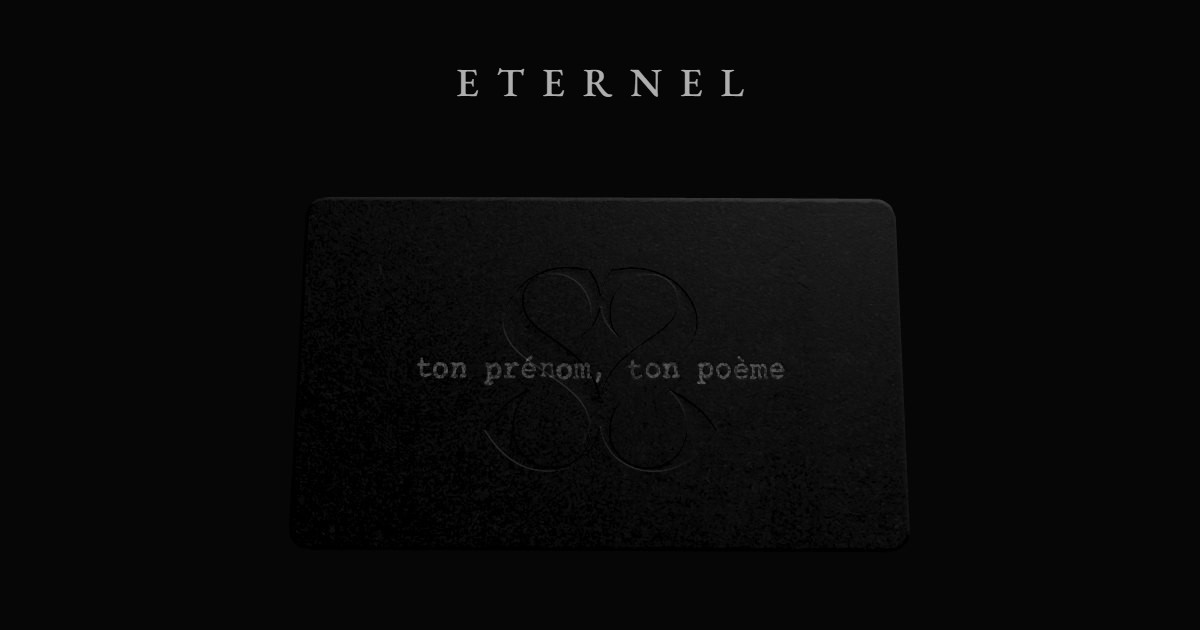
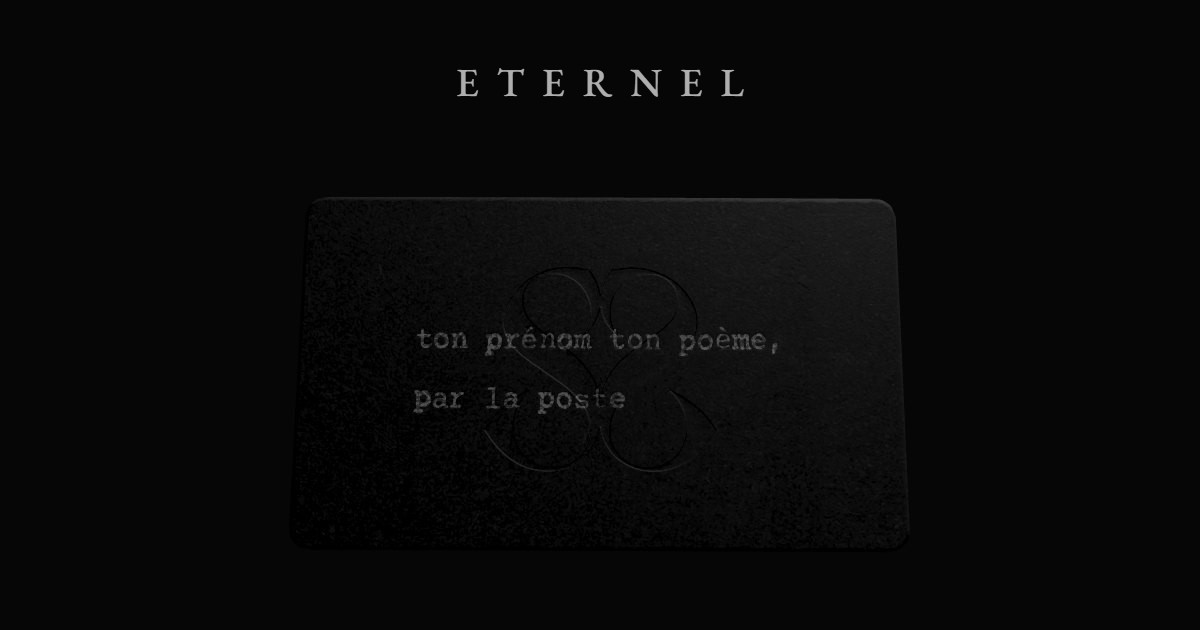
Portail : la première carte devient « ton prénom ton poème, / par la poste » (aperçu du lien refait)

Changed region(s): [[0.3392, 0.5127, 0.5242, 0.6635], [0.5242, 0.5127, 0.6475, 0.6032]]

diff --git a/index.html b/index.html
@@ -13,12 +13,12 @@
 <meta property="og:type" content="website">
 <meta property="og:site_name" content="ETERNEL">
 <meta property="og:title" content="SINGULIÉS">
-<meta property="og:description" content="ton prénom, ton poème. tapé à la machine, posté chez toi.">
+<meta property="og:description" content="ton prénom ton poème, par la poste. tapé à la machine par eternel.">
 <meta property="og:url" content="https://rytrtest1.github.io/singulies/">
 <meta property="og:image" content="https://rytrtest1.github.io/singulies/og.jpg">
 <meta property="og:image:width" content="1200">
 <meta property="og:image:height" content="630">
-<meta property="og:image:alt" content="Une carte noire, logo gaufré, où l'on lit, tapé à la machine : ton prénom, ton poème.">
+<meta property="og:image:alt" content="Une carte noire, logo gaufré, où l'on lit, tapé à la machine : ton prénom ton poème, par la poste.">
 <meta property="og:locale" content="fr_FR">
 <meta name="twitter:card" content="summary_large_image">
 <link rel="icon" type="image/png" sizes="32x32" href="./favicon-32.png">
@@ -30,7 +30,7 @@
 <canvas id="c" aria-hidden="true"></canvas>
 <!-- pour les lecteurs d'écran et les moteurs (invisible) -->
 <div class="sr"><h1>SINGULIÉS, par Eternel</h1><p>Ton prénom devient un poème : on tire une carte du jeu Singuliés, on répond à sa question, puis Eternel écrit ton acrostiche à la machine et te l'envoie par la poste.</p></div>
-<noscript><p style="position:fixed;inset:0;margin:0;display:flex;align-items:center;justify-content:center;text-align:center;color:#aeaeae;font:15px/1.9 'Courier New',monospace;white-space:pre">ton prénom, ton poème.
+<noscript><p style="position:fixed;inset:0;margin:0;display:flex;align-items:center;justify-content:center;text-align:center;color:#aeaeae;font:15px/1.9 'Courier New',monospace;white-space:pre">ton prénom ton poème, par la poste.
 (il faut javascript pour l'écrire.)</p></noscript>
 <div id="fallback" aria-hidden="true"></div>
 <form id="f" autocomplete="off" onsubmit="return false">

diff --git a/email-assets.html b/email-assets.html
@@ -62,10 +62,10 @@
     return { url: c.toDataURL('image/png'), w: w / 2, h: h / 2 };
   }
 
-  // aperçu du lien (Open Graph, 1200 × 630) : ETERNEL comme sur le portail, et la première carte, « ton prénom, ton poème »
+  // aperçu du lien (Open Graph, 1200 × 630) : ETERNEL comme sur le portail, et la première carte, « ton prénom ton poème, par la poste »
   async function ogShot() {
     canvas.width = 1200; canvas.height = 630;
-    const url = cardShot('ton prénom, ton poème', { seed: 5, frac: 0.5, dy: -8 });
+    const url = cardShot('ton prénom ton poème, par la poste', { seed: 5, frac: 0.5, dy: -8 });
     const img = new Image(); img.src = url; await img.decode();
     const c = document.createElement('canvas'); c.width = 1200; c.height = 630;
     const x = c.getContext('2d');

diff --git a/src/main.js b/src/main.js
@@ -613,7 +613,7 @@ function smooth(a, b, x) { const t = Math.min(1, Math.max(0, (x - a) / (b - a)))
 
 // ---------- portail : la première page (avant le champ) ----------
 let portal = null, portalGo = null, booted = false;
-// toucher « ton prénom, ton poème » : dans le même geste, le champ prend le focus (iPhone : le clavier s'ouvre)
+// toucher « ton prénom ton poème, par la poste » : dans le même geste, le champ prend le focus (iPhone : le clavier s'ouvre)
 // et le champ apparaît sous le portail qui s'efface
 function enterFromPortal() {
   S.portal = false;

diff --git a/src/portal/portal.js b/src/portal/portal.js
@@ -18,7 +18,7 @@ import { createRng } from '../field/rng.js';
 // liens de sortie : null = lien d'attente (« bientôt »)
 export const LINKS = { lettre: null, livres: 'https://www.amazon.fr/dp/B0DS8RF83H', jeu: null };
 const ITEMS = [
-  { id: 'poeme', label: 'ton prénom, ton poème' },
+  { id: 'poeme', label: 'ton prénom ton poème, par la poste' },
   { id: 'lettre', label: 'une lettre chez toi, chaque mois' },
   { id: 'livres', label: 'mes livres' },
   { id: 'jeu', label: 'le jeu' },

diff --git a/CLAUDE.md b/CLAUDE.md
@@ -6,7 +6,7 @@ Reprise de session : lire ce fichier + `ETAT.md`. Ne pas relire le prototype ni 
 ## Portail — la première page (05/10, prototype `src/portal/portal.js`)
 - Public : ≈ 95 % téléphone, arrivée par le lien en bio Instagram / TikTok (navigateur intégré), après une vidéo d'Eternel (nom d'artiste, connu ; Singuliés ne l'est pas) qui écrit un acrostiche à un inconnu dans la rue. Un seul lien pour tout.
 - Ouverture : **ETERNEL tapé lettre à lettre, en silence, exactement comme le prénom** (06/10 : EB Garamond 500, capitales, interlettrage 0,45 em, gris 158, à la place et à la taille du prénom de la scène des cartes, capitales centrées à 11 % du haut ; les cartes dessous), pendant que les cartes se préparent ; les cartes s'affichent au plus vite (fondu depuis le fond). Peut être retiré s'il ralentit. **Pas de son pour l'instant.**
-- **Quatre cartes du jeu, même rang, le poème d'abord** (téléphone : en colonne ; ordinateur : 2 × 2), même papier / lumière / frappe que la scène des cartes, minuscules : *ton prénom, ton poème* · *une lettre chez toi, chaque mois* · *mes livres* · *le jeu* (le paquet lui-même, à vendre ; mène à sa page d'achat, pas de prix affiché).
+- **Quatre cartes du jeu, même rang, le poème d'abord** (téléphone : en colonne ; ordinateur : 2 × 2), même papier / lumière / frappe que la scène des cartes, minuscules : *ton prénom ton poème, par la poste* (08/10, sur deux lignes : « ton prénom ton poème, / par la poste ») · *une lettre chez toi, chaque mois* · *mes livres* · *le jeu* (le paquet lui-même, à vendre ; mène à sa page d'achat, pas de prix affiché).
 - **« le jeu » (proposition de la nuit, `src/jeu/jeu.js`, `scene-jeu.html`)** : sa page, dans le même monde, par-dessus le portail : le paquet arrive du fond et tire une question pour la personne (on goûte le jeu) ; toucher le paquet ou glisser la question = une autre ; dessous, une carte **« le commander »** (lien `JEU_LINK`, d'attente : « bientôt ») qui apparaît après la première question et sautille après la troisième ; pas de prix ; retour (flèche, Échap) = le portail, qui redistribue.
 - « mes livres » → le recueil sur Amazon (06/10). La préparation du champ attend la fin de la donne (+ 1,3 s) : elle faisait hoqueter la 3e carte juste avant qu'elle se pose.
 - Toucher le poème = le champ de prénoms, **clavier ouvert dans le même geste** (iPhone). Les autres : leur lien (`LINKS` dans portal.js ; liens d'attente pour l'instant : la carte se retourne, « bientôt », revient). Flèche retour / Échap depuis le champ = le portail. `?portail=0` = directement le champ (tests).
